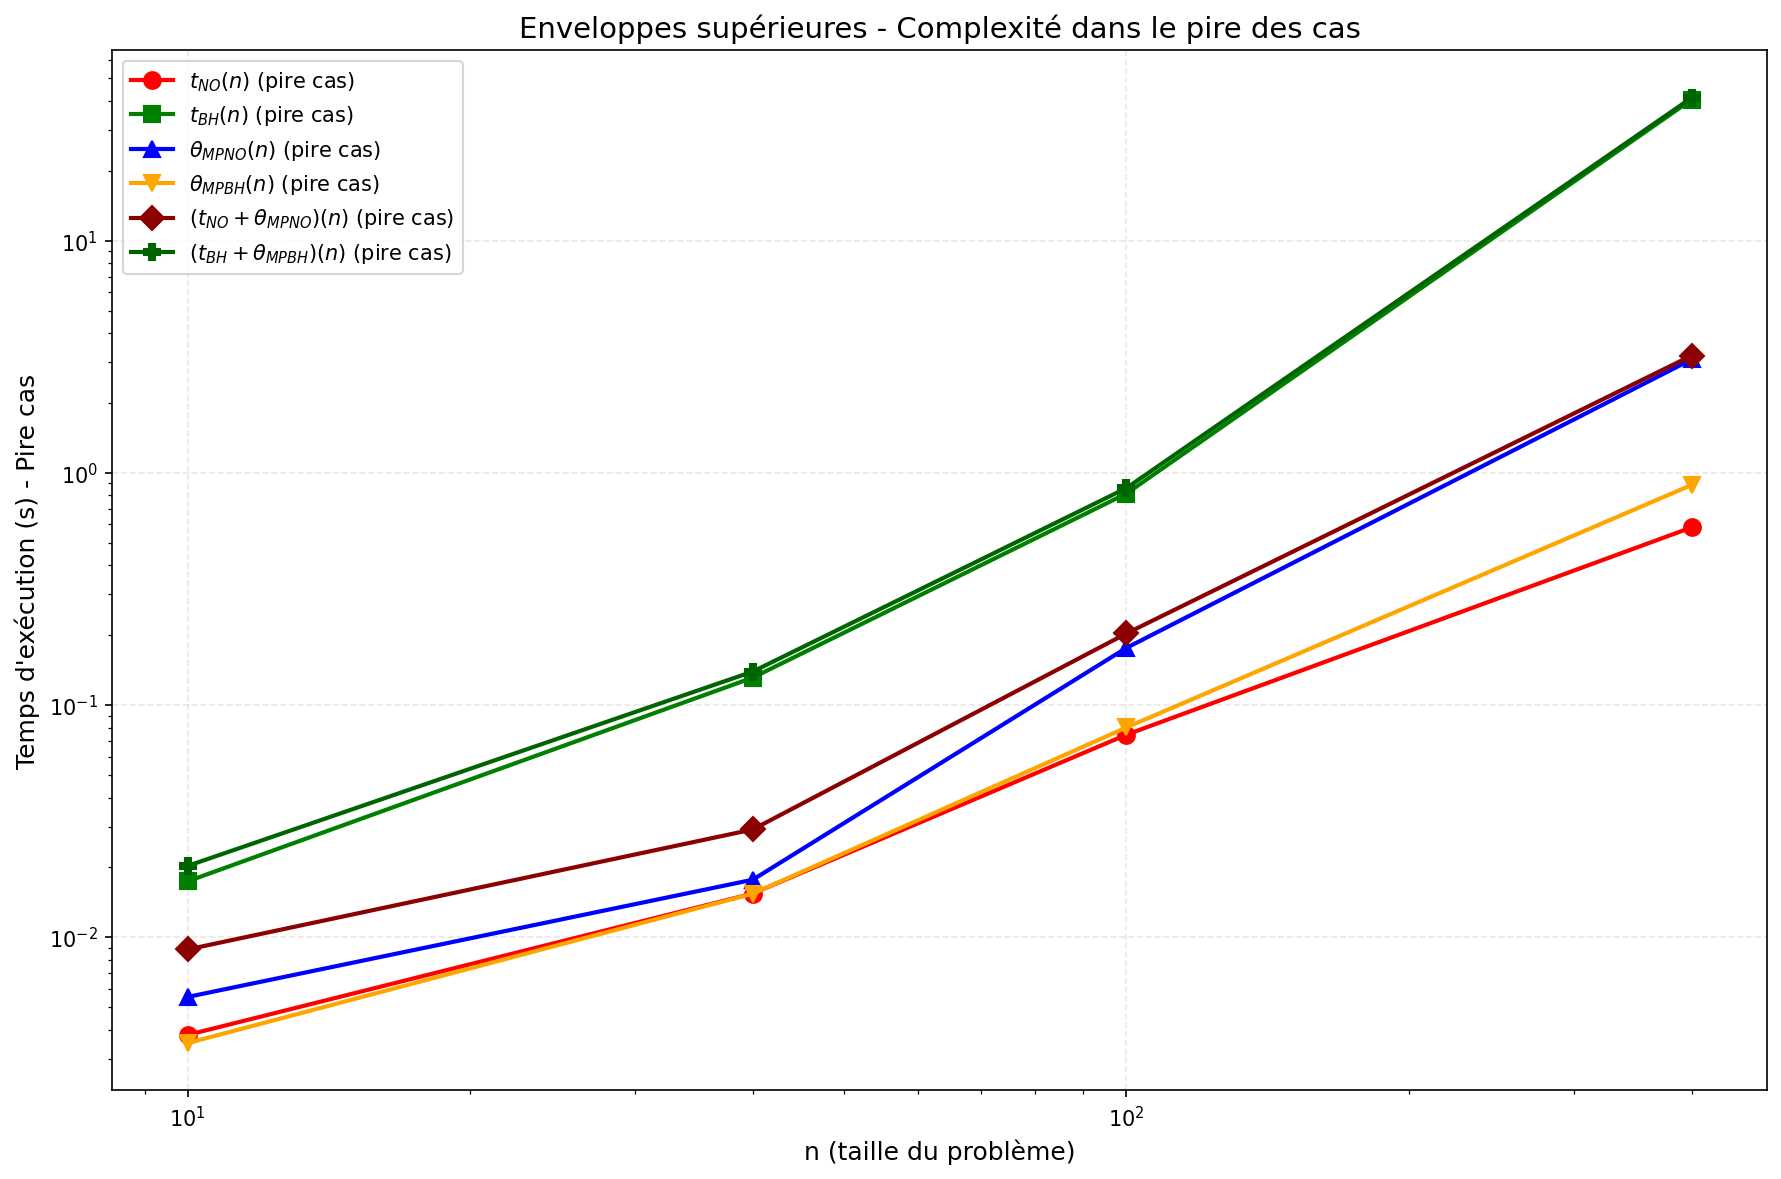
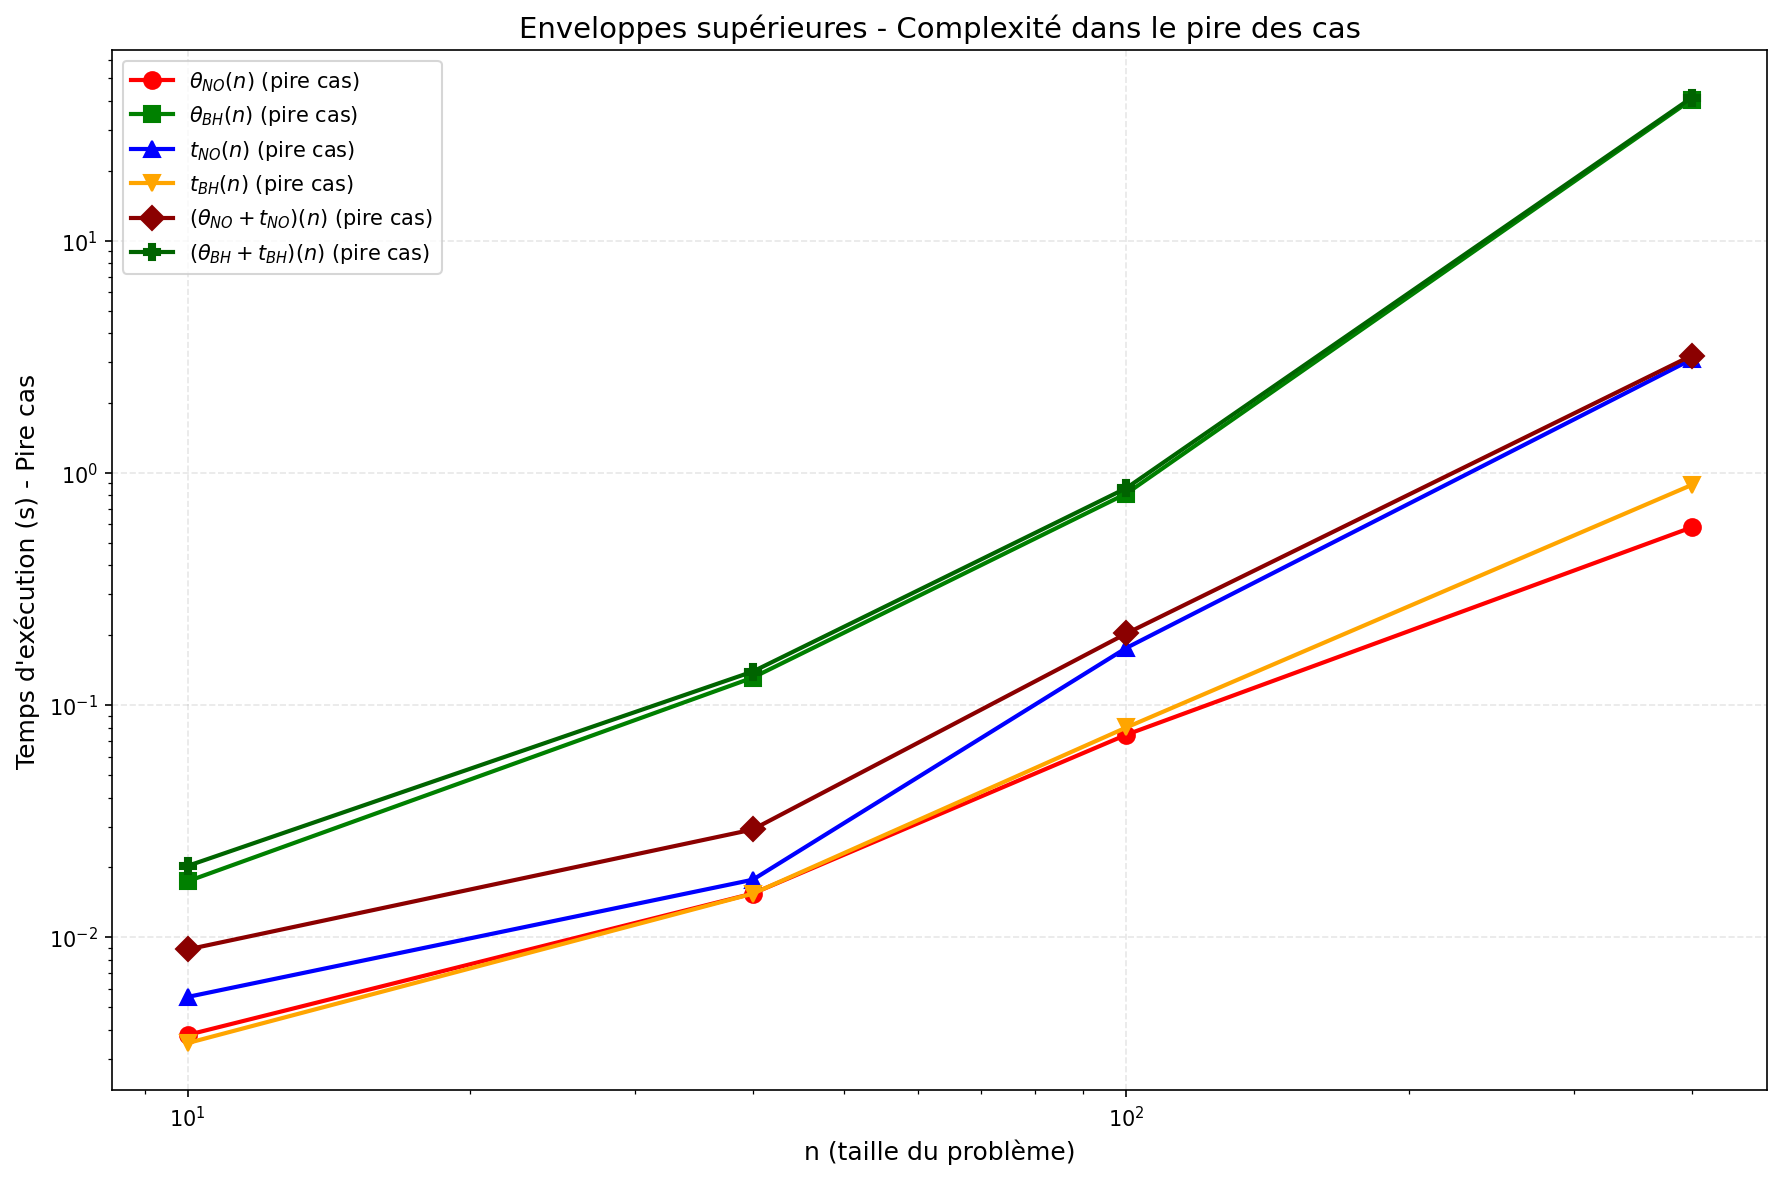
img modification nom v2

Changed region(s): [[0.0926, 0.0611, 0.2779, 0.2443]]

diff --git a/complexity.py b/complexity.py
@@ -268,12 +268,12 @@ def tracer_nuage_points(donnees):
     # Clé interne -> (couleur, label affiché, style de marqueur)
     # Les algorithmes d'initialisation sont θ (pas t) selon la nomenclature du projet
     series = [
-        ('t_NO',   'red',    '$t_{NO}(n)$',           None),
-        ('t_BH',   'green',  '$t_{BH}(n)$',           None),
-        ('t_MPNO', 'blue',   r'$\theta_{MPNO}(n)$',         None),
-        ('t_MPBH', 'orange', r'$\theta_{MPBH}(n)$',         None),
-        ('sum_NO', 'darkred',    r'$(t_{NO}+\theta_{MPNO})(n)$', '+'),
-        ('sum_BH', 'darkgreen',  r'$(t_{BH}+\theta_{MPBH})(n)$', 'x'),
+        ('t_NO',   'red',    r'$\theta_{NO}(n)$',           None),
+        ('t_BH',   'green',  r'$\theta_{BH}(n)$',           None),
+        ('t_MPNO', 'blue',   '$t_{NO}(n)$',         None),
+        ('t_MPBH', 'orange', '$t_{BH}(n)$',         None),
+        ('sum_NO', 'darkred',    r'$(\theta_{NO}+t_{NO})(n)$', '+'),
+        ('sum_BH', 'darkgreen',  r'$(\theta_{BH}+t_{BH})(n)$', 'x'),
     ]
     
     n_sorted = sorted(donnees.keys())
@@ -332,12 +332,12 @@ def tracer_enveloppes_superieures(donnees):
     fig, ax = plt.subplots(figsize=(12, 8))
     
     series = [
-        ('t_NO',   r'$t_{NO}(n)$',              'o', 'red'),
-        ('t_BH',   r'$t_{BH}(n)$',              's', 'green'),
-        ('t_MPNO', r'$\theta_{MPNO}(n)$',                 '^', 'blue'),
-        ('t_MPBH', r'$\theta_{MPBH}(n)$',                 'v', 'orange'),
-        ('sum_NO', r'$(t_{NO}+\theta_{MPNO})(n)$',   'D', 'darkred'),
-        ('sum_BH', r'$(t_{BH}+\theta_{MPBH})(n)$',   'P', 'darkgreen'),
+        ('t_NO',   r'$\theta_{NO}(n)$',              'o', 'red'),
+        ('t_BH',   r'$\theta_{BH}(n)$',              's', 'green'),
+        ('t_MPNO', '$t_{NO}(n)$',                 '^', 'blue'),
+        ('t_MPBH', '$t_{BH}(n)$',                 'v', 'orange'),
+        ('sum_NO', r'$(\theta_{NO}+t_{NO})(n)$',   'D', 'darkred'),
+        ('sum_BH', r'$(\theta_{BH}+t_{BH})(n)$',   'P', 'darkgreen'),
     ]
     
     for key, label, marker, color in series:
@@ -433,7 +433,7 @@ def tracer_rapport_comparaison(donnees):
     # est plus lisible pour interpréter le rapport autour de 1.
     ax.set_xlabel('n (taille du problème)', fontsize=12)
     ax.set_ylabel(
-        r'$R(n) = \dfrac{t_{NO} + \theta_{MPNO}}{t_{BH} + \theta_{MPBH}}$',
+        r'$R(n) = \dfrac{\theta_{NO} + t_{NO}}{\theta_{BH} + t_{BH}}$',
         fontsize=14
     )
     ax.set_title('Comparaison Nord-Ouest vs Balas-Hammer', fontsize=14)
